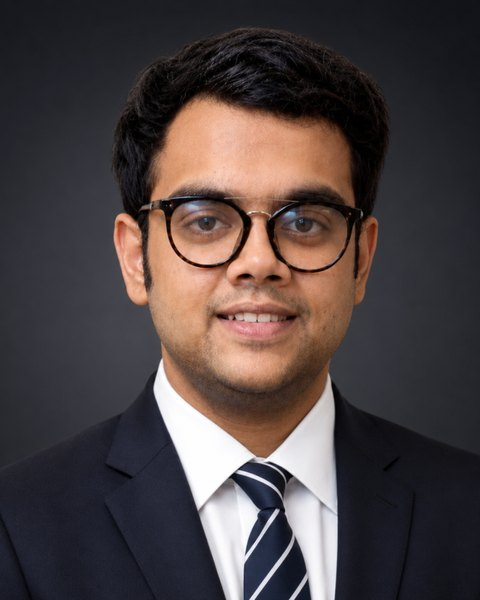
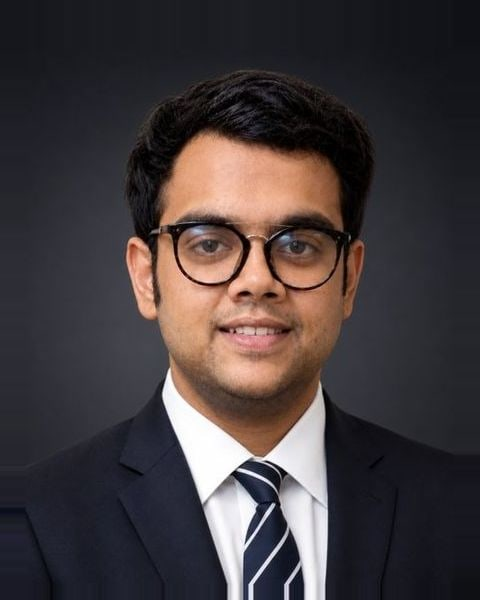
Team: align all six portraits to one framing; co-founder labels without practice areas

diff --git a/lib/content.ts b/lib/content.ts
@@ -88,7 +88,7 @@ export const PARTNERS = [
   {
     name: "Binit Agrawal",
     photo: "/img/binit-agrawal.jpg",
-    role: "Co-founder · Corporate, transactions, competition, technology",
+    role: "Co-founder",
     bio: [
       "Binit advises on transactions, corporate work and competition law. He worked in the PE/VC team at Khaitan & Co, and filed merger notices before the CCI at Axiom5 Law Chambers, a competition boutique. He also trained for six months with the technology and corporate teams of Bae, Kim & Lee in Seoul. As Head of Strategy at Lucio, a legal AI company, he led its expansion abroad, fundraising and hiring.",
       "He has worked as a consultant with UNDP, the Digital Cooperation Organisation in Saudi Arabia, Open Society Foundations and GIZ. He is an Affiliate Fellow of the Cyril Shroff Centre for AI, Law & Regulation, and has appeared before the Supreme Court, several High Courts and the NCLAT.",
@@ -100,7 +100,7 @@ export const PARTNERS = [
   {
     name: "Prannv Dhawan",
     photo: "/img/prannv-dhawan.jpg",
-    role: "Co-founder · Disputes, constitutional and public law, tax",
+    role: "Co-founder",
     bio: [
       "Prannv specialises in commercial disputes and tax matters. He clerked for Justice B.V. Nagarathna at the Supreme Court of India, then practised trial and appellate litigation at Farasat Law Offices before the Supreme Court and High Courts. Earlier, he worked in the international tax team at Deloitte, New York. He is a member of the Appeal Committee of the Delhi Soccer Association.",
       "He was a Research Associate at the Centre for Policy Research and a Visiting Researcher at the Centre de Sciences Humaines. He is Assisting Counsel to the Supreme Court Legal Services Committee and a special invitee to the Karnataka High Court’s Accessibility Committee.",
